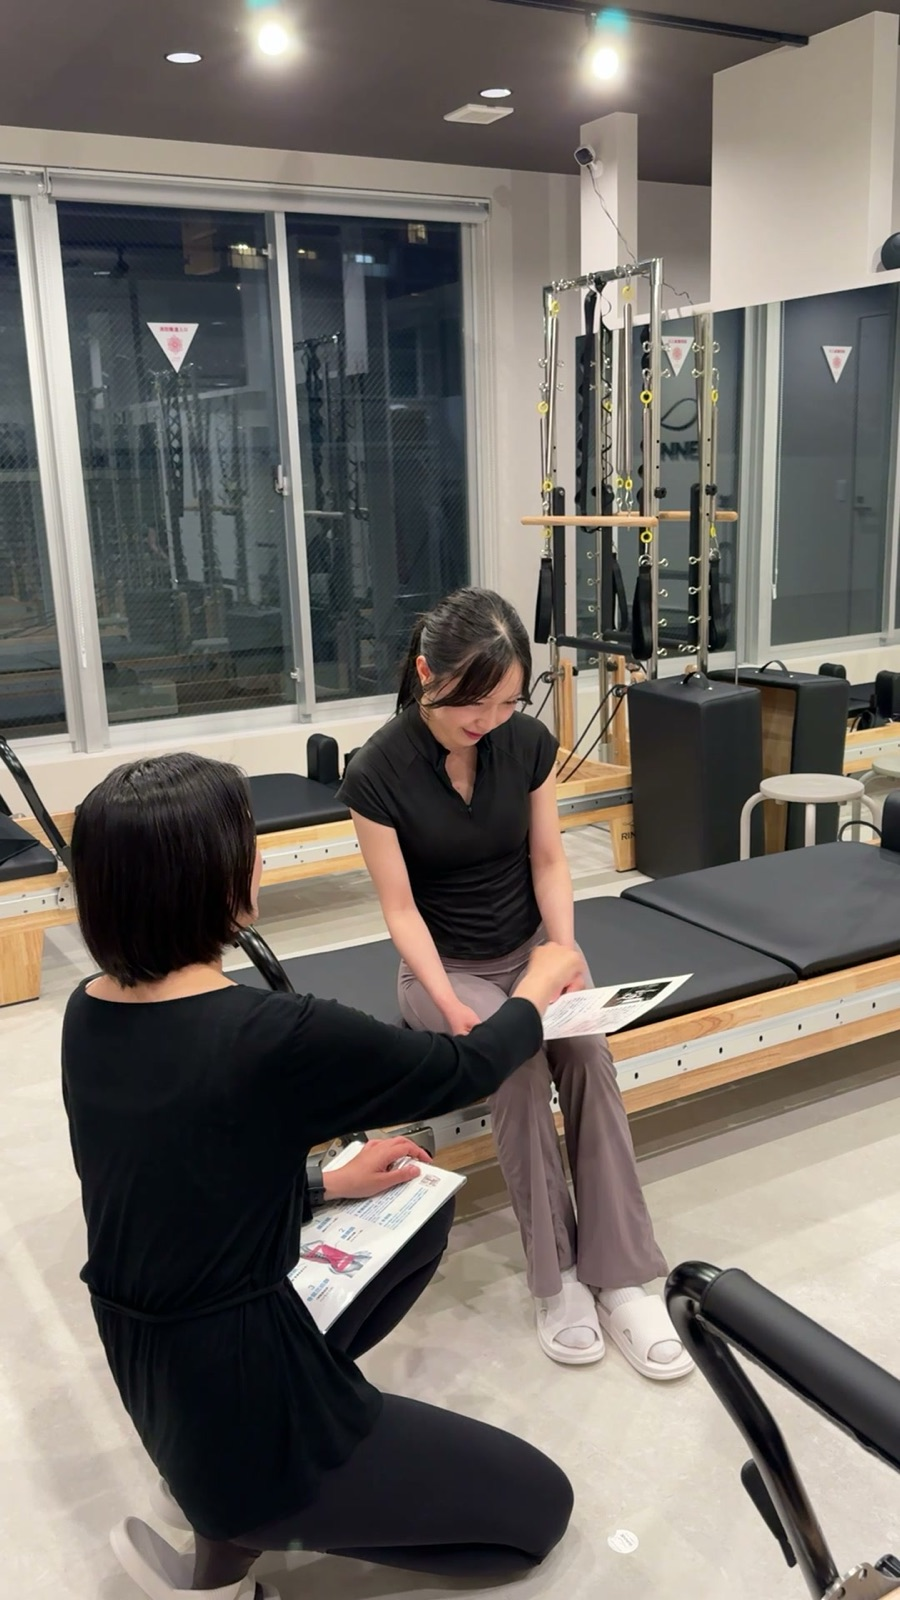
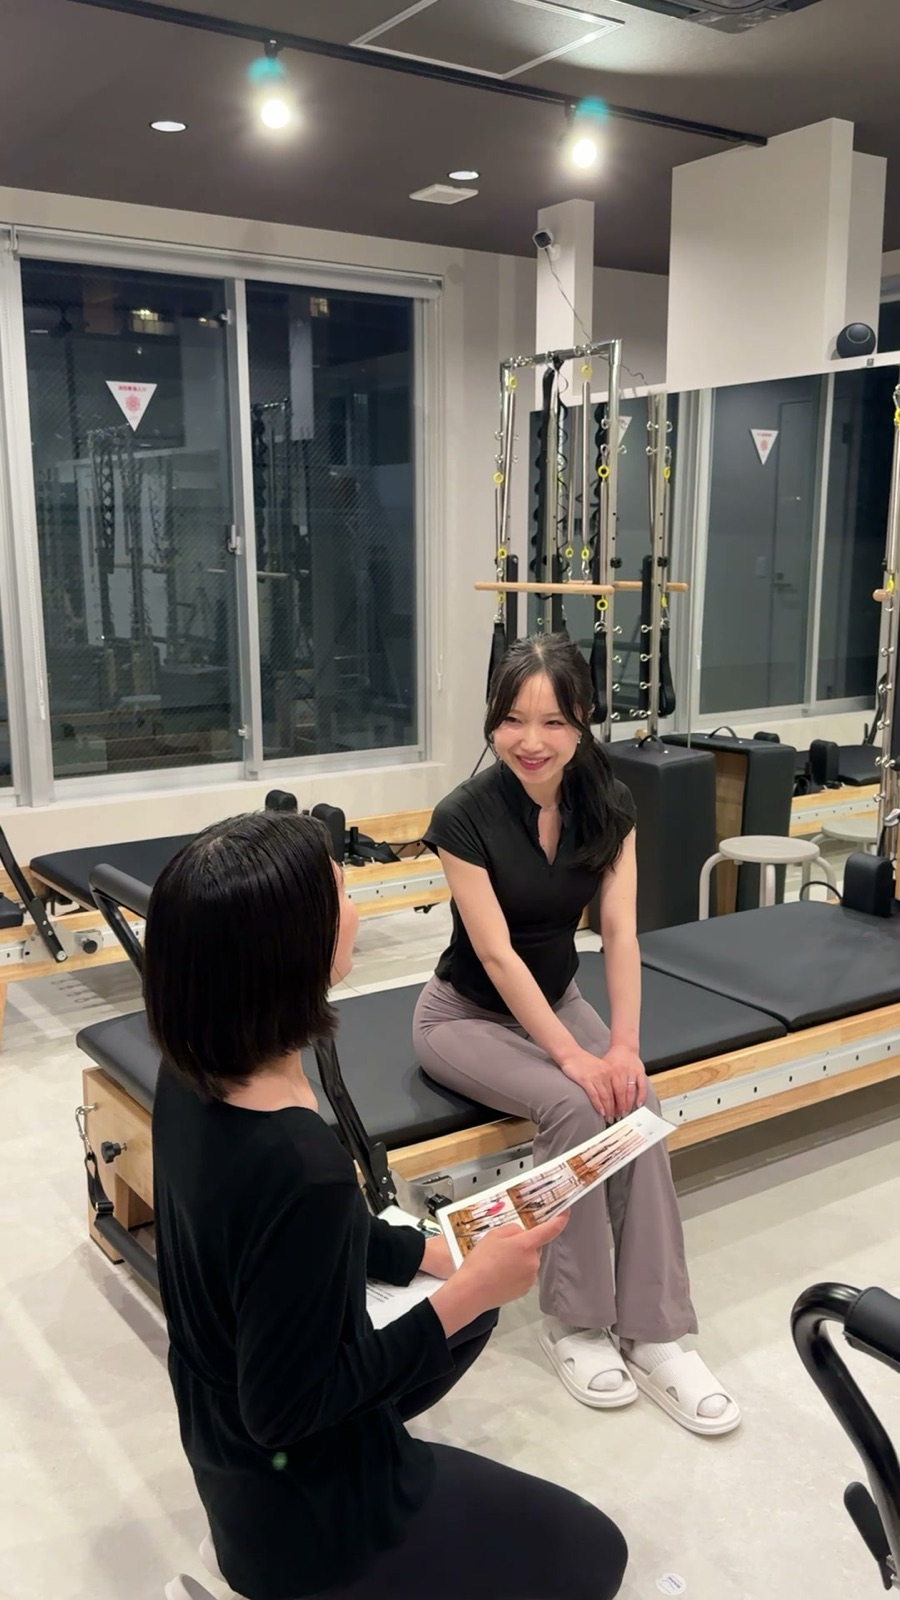
pilates-rinne-tsujido: パーソナルスタジオ訴求へ改訂、MV差し替え
最大3名・セミパーソナルの文言を全セクションから削除し、マンツーマン/
パーソナル訴求に統一（比較表・理由セクション・初心者向けセクション等は
文脈が崩れないよう言い回しも調整）。あわせて入会金0円の明記、期間限定を
「8/31までの体験予約限定」に具体化、MVを姿勢診断デモのカットに差し替えて
明るさ補正、FVに辻堂駅徒歩2分のチップを追加、キャッチコピーを新MVに合わせて
「姿勢から整える、続けやすい形で。」に変更。

diff --git a/apps/lp/clients/pilates-rinne-tsujido/config.ts b/apps/lp/clients/pilates-rinne-tsujido/config.ts
@@ -41,11 +41,19 @@ const ASSET = "/clients/pilates-rinne-tsujido";
  * 高画質な写真（2025/12/27撮影、海老名店/辻堂店混在・店舗未分類）が多数あるため、
  * 顧客に各写真がどちらの店舗かを確認できれば、それらへの差し替えを推奨する。
  * 使用した元動画（フレーム切り出し元）:
- *   hero.jpg ← IMG_7769 / reason-1.jpg ← IMG_7763 / reason-2.jpg ← IMG_7777 /
- *   reason-3.jpg ← IMG_7767 / reason-4.jpg ← IMG_7773 / posture.jpg ← IMG_7776 /
+ *   hero.jpg ← IMG_7776 / reason-1.jpg ← IMG_7763 / reason-2.jpg ← IMG_7777 /
+ *   reason-3.jpg ← IMG_7767 / reason-4.jpg ← IMG_7773 / posture.jpg ← IMG_7769 /
  *   instructor-1.jpg ← IMG_7765
  * （reason-3とreason-4は初版がどちらも同じ2人の近距離カウンセリング写真で似すぎていた
  *   ため、reason-4はスタジオ全体を映した別カットに差し替え済み。2026-08-05）
+ * （2026-08-25: 「パーソナルスタジオ」訴求への変更に合わせ、MVの中身を差し替え。
+ *   フォルダ内の素材は実質「カウンセリング中の2人」系統（hero/reason-1/reason-3/
+ *   instructor-1、いずれも近い数秒のカットで見た目が近い）と「姿勢診断デモの
+ *   立ち姿」系統（posture/reason-4）の2パターンしかないため、MVを後者の系統に
+ *   差し替えて視覚的な違いを出した。ファイル名は変更せず内容のみ入れ替え。
+ *   hero.jpg⇔posture.jpgの内容を交換、hero.jpg⇔instructor-1.jpgも先に交換済み。
+ *   本当に「レッスン中」の写真は素材内に存在しないため、それが必要なら顧客への
+ *   追加素材依頼（Google Drive内の未分類高画質写真、または新規撮影）が必要）
  */
 
 /** レイアウト上の画像枠。`src` が null ならプレースホルダ表示。 */
@@ -94,7 +102,7 @@ export interface RinneConfig {
     hero: Slot;
     /** 補足要素（初心者歓迎・監修・体験受付中など） */
     notes: string[];
-    /** 特徴チップ（最大3名 / 姿勢診断付き / 監修） */
+    /** 特徴チップ（姿勢診断付き / 監修） */
     chips: { small: string; big: string }[];
   };
 
@@ -236,9 +244,9 @@ const config: RinneConfig = {
   status: "draft",
   meta: {
     title:
-      "ピラティスRINNE 辻堂店｜最大3名のセミパーソナル・姿勢診断付きマシンピラティス",
+      "ピラティスRINNE 辻堂店｜マンツーマン・姿勢診断付きマシンピラティス",
     description:
-      "辻堂店のセミパーソナルマシンピラティスRINNE。最大3名だからインストラクターが一人ひとりの動きを確認します。鍼灸師・整体師監修のプログラムと姿勢診断から始めるので、ピラティスが初めての方・身体が硬い方も安心。体験レッスン受付中。",
+      "辻堂店のパーソナルマシンピラティスRINNE。マンツーマンだからインストラクターが一人ひとりの動きを確認します。鍼灸師・整体師監修のプログラムと姿勢診断から始めるので、ピラティスが初めての方・身体が硬い方も安心。体験レッスン受付中。",
     ogpImage: undefined,
   },
   accent: "#003E2F",
@@ -251,24 +259,23 @@ const config: RinneConfig = {
     note: undefined,
   },
   offerBar: {
-    badgeLines: ["期間", "限定"],
+    badgeLines: ["8/31", "まで"],
     text: "無料体験レッスン受付中",
   },
   // TBD: Google口コミ等の実績数値。確定まで数字を出さない。
   achievement: { pre: "鍼灸師・整体師監修", num: "", post: "のプログラム" },
 
   fv: {
-    catchLines: ["パーソナルの丁寧さを、", "続けやすい形で。"],
+    catchLines: ["姿勢から整える、", "続けやすい形で。"],
     subLines: [
-      "マンツーマンも",
-      "最大3名のセミパーソナルも選べる",
+      "マンツーマンで丁寧に",
       "姿勢診断から始めるマシンピラティス",
     ],
     hero: {
-      placeholder: "最大3名でのレッスン風景（メインビジュアル）",
+      placeholder: "マンツーマンレッスンの様子（メインビジュアル）",
       src: `${ASSET}/hero.jpg`,
     },
-    notes: ["初心者歓迎", "鍼灸師・整体師監修", "辻堂店で体験受付中"],
+    notes: ["初心者歓迎", "鍼灸師・整体師監修", "辻堂駅徒歩2分", "辻堂店で体験受付中"],
     chips: [{ small: "姿勢診断", big: "付き" }],
   },
 
@@ -292,10 +299,10 @@ const config: RinneConfig = {
     items: [
       {
         num: "01",
-        title: "マンツーマンも最大3名のセミパーソナルも選べる",
+        title: "完全マンツーマンで一人ひとりに向き合う",
         body:
-          "大人数のグループレッスンとは異なり、インストラクターが一人ひとりの動きを確認します。初心者の方や、正しく動けているか不安な方にも参加しやすいレッスンです。",
-        img: { placeholder: "最大3名で受講している様子", src: `${ASSET}/reason-1.jpg` },
+          "大人数のグループレッスンとは異なり、インストラクターがお客様一人に集中して動きを確認します。初心者の方や、正しく動けているか不安な方にも安心して参加いただけるレッスンです。",
+        img: { placeholder: "マンツーマンで受講している様子", src: `${ASSET}/reason-1.jpg` },
       },
       {
         num: "02",
@@ -313,23 +320,23 @@ const config: RinneConfig = {
       },
       {
         num: "04",
-        title: "続けやすいレッスン形式",
+        title: "続けやすい料金",
         body:
-          "パーソナルレッスンのような丁寧さと、グループレッスンの通いやすさを両立しています。しっかり見てもらいたいけれど、完全パーソナルは続けにくいと感じる方にもおすすめです。",
+          "丁寧なマンツーマンレッスンでありながら、無理なく続けやすい料金でご案内しています。しっかり見てもらいたい方にも、通いやすい形でお選びいただけます。",
         img: { placeholder: "スタジオ内観・マシンの写真", src: `${ASSET}/reason-4.jpg` },
       },
     ],
   },
 
   comparison: {
-    heading: "パーソナルとグループの、\n良いところを両立。",
+    heading: "パーソナルの丁寧さを、\n続けやすい料金で。",
     lead: "完全パーソナル・大人数のグループレッスンと、RINNEのピラティスを比べました。",
     columns: ["完全\nパーソナル", "大人数の\nグループ", "RINNE"],
     highlight: 2,
     rows: [
       {
         label: "レッスン人数",
-        values: ["1名", "多人数", "最大3名"],
+        values: ["1名", "多人数", "1名"],
         marks: ["good", "poor", "good"],
       },
       {
@@ -354,7 +361,7 @@ const config: RinneConfig = {
       },
       {
         label: "初心者の参加しやすさ",
-        values: ["安心して始めやすい", "周囲についていけるか不安になりやすい", "少人数だから質問しやすい"],
+        values: ["安心して始めやすい", "周囲についていけるか不安になりやすい", "マンツーマンだから質問しやすい"],
         marks: ["good", "poor", "good"],
       },
     ],
@@ -420,9 +427,9 @@ const config: RinneConfig = {
   beginner: {
     heading: "ピラティスが初めてでも、大丈夫です。",
     body:
-      "RINNEに通う方の中には、運動が久しぶりの方や、ピラティスが初めての方もいらっしゃいます。セミパーソナルは最大3名のため、周囲についていくことを優先せず、ご自身のペースでレッスンを受けられます。",
+      "RINNEに通う方の中には、運動が久しぶりの方や、ピラティスが初めての方もいらっしゃいます。マンツーマンだからこそ、周囲を気にせず、ご自身のペースでレッスンを受けられます。",
     items: [
-      "最大3名だから質問しやすい",
+      "マンツーマンだから質問しやすい",
       "インストラクターが動きを確認",
       "マシンが身体の動きをサポート",
       "一人ひとりのペースで進められる",
@@ -469,10 +476,10 @@ const config: RinneConfig = {
 
   pricing: {
     heading: "料金・キャンペーン",
-    campaignBadge: "期間限定",
+    campaignBadge: "8月31日までに体験予約をした方限定",
     campaignTitle: "体験レッスン無料",
     campaignLead:
-      "マンツーマンも最大3名のセミパーソナルも、\n姿勢診断とあわせてまずは体験してみませんか？",
+      "マンツーマンのパーソナルレッスンを、\n姿勢診断とあわせてまずは体験してみませんか？",
     trialRegular: "8,800",
     trialNow: "0",
   },
@@ -508,7 +515,7 @@ const config: RinneConfig = {
     items: [
       {
         q: "ピラティスが初めてでも参加できますか？",
-        a: "はい、初めての方も歓迎しております。最大3名の少人数制で、インストラクターが一人ひとりの動きを確認しながら進めますので、初めての方でも安心してご参加いただけます。",
+        a: "はい、初めての方も歓迎しております。マンツーマンで、インストラクターが一人ひとりの動きを確認しながら進めますので、初めての方でも安心してご参加いただけます。",
       },
       {
         q: "身体が硬くても大丈夫ですか？",
@@ -528,10 +535,9 @@ const config: RinneConfig = {
 
   closing: {
     heading: "大人数ではなく、\nあなたの身体に目が届くピラティスを。",
-    lead: "マンツーマンも最大3名のセミパーソナルも、\nまずは体験してみませんか？",
+    lead: "マンツーマンのパーソナルレッスンを、\nまずは体験してみませんか？",
     chips: [
       "パーソナルマシンピラティス",
-      "最大3名のセミパーソナル",
       "姿勢診断付き",
       "鍼灸師・整体師監修",
       "初心者歓迎",
@@ -547,7 +553,7 @@ const config: RinneConfig = {
         url: "https://rinne-pilates.hacomono.jp/widgets/4?isShowProgramName=true&studioId=4",
       },
     ],
-    note: "初回体験0円｜しつこい勧誘はいたしません。",
+    note: "初回体験0円｜入会金0円｜しつこい勧誘はいたしません。",
   },
 
   sticky: {

diff --git a/apps/lp/clients/pilates-rinne-tsujido/page.tsx b/apps/lp/clients/pilates-rinne-tsujido/page.tsx
@@ -501,7 +501,14 @@ export default function Page() {
               src={c.fv.hero.src}
               placeholder={c.fv.hero.placeholder}
               objectPosition={c.fv.hero.position ?? "center"}
-              style={{ position: "absolute", inset: 0, width: "100%", height: "100%" }}
+              style={{
+                position: "absolute",
+                inset: 0,
+                width: "100%",
+                height: "100%",
+                // 元写真が店内の暗めの照明で撮影されているため、MVとして少し明るく補正。
+                filter: "brightness(1.18) saturate(1.05)",
+              }}
             />
             <div
               style={{
